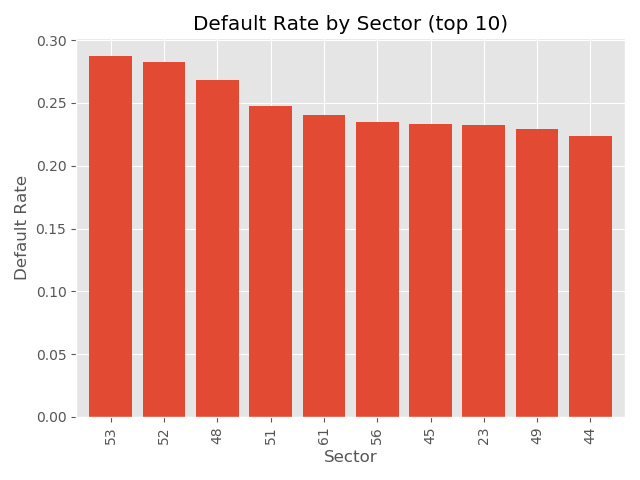
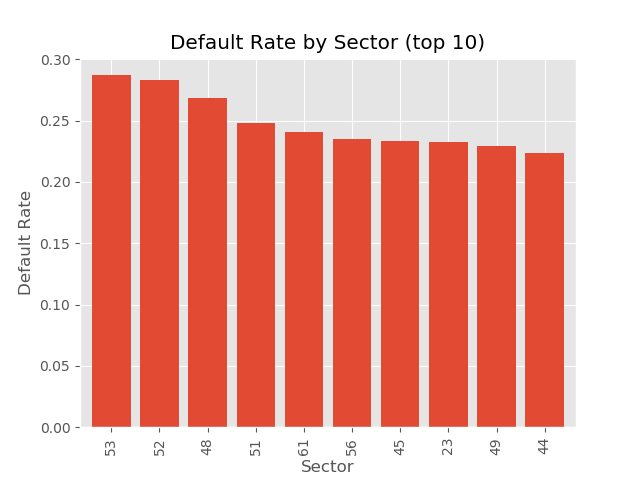
eda updated

diff --git a/src/data_eda.py b/src/data_eda.py
@@ -98,18 +98,18 @@ def plot_pca_explained_var(ax, pca):
 
 if __name__ == "__main__":
 
-    us_unemploy = pd.read_csv('data/us_unemployment.csv', index_col=0)
-    ur = us_unemploy.values.reshape(-1,1)[:-8]
-    date_range = pd.date_range('1965-01','2020-05', freq='M')
-    df_ur = pd.DataFrame(data=ur, index=date_range, columns=['U_rate'])
-    fig, ax = plt.subplots(figsize=(8,4))
-    ax.plot(df_ur)
-    ax.set_title("U.S. Unemployment Rate (1965.01-2020.04)")
-    ax.set_xlabel("Time")
-    ax.set_ylabel("Unemployment Rate")
-    plt.tight_layout()
-    plt.savefig('images/unemployment.png')
-    plt.close()
+    # us_unemploy = pd.read_csv('data/us_unemployment.csv', index_col=0)
+    # ur = us_unemploy.values.reshape(-1,1)[:-8]
+    # date_range = pd.date_range('1965-01','2020-05', freq='M')
+    # df_ur = pd.DataFrame(data=ur, index=date_range, columns=['U_rate'])
+    # fig, ax = plt.subplots(figsize=(8,4))
+    # ax.plot(df_ur)
+    # ax.set_title("U.S. Unemployment Rate (1965.01-2020.04)")
+    # ax.set_xlabel("Time")
+    # ax.set_ylabel("Unemployment Rate")
+    # plt.tight_layout()
+    # plt.savefig('images/unemployment.png')
+    # plt.close()
 
     df = pd.read_pickle('data/pickled_loan')
     df.drop(['grouper','Date'], axis=1, inplace=True)
@@ -119,22 +119,20 @@ if __name__ == "__main__":
     # m = heatmap_state(df_state, columns, 'Default Rate (%)', 'YlGn')
 
     plot_default_rate(df, 'Sector', "Default Rate by Sector (top 10)", ascending=False)
-    plt.tight_layout()
     plt.savefig('images/default_sector_top10.png')
     plt.close()
 
     plot_default_rate(df, 'Sector', "Default Rate by Sector (bottom 10)", ascending=True)
     plt.savefig('images/default_sector_bottom10.png')
-    plt.tight_layout()
     plt.close()
 
-    plot_default_rate(df, 'Bank', "Loan Default Rate by Bank Histogram (3000+ loans)", cutoff=3000, bins=10)
-    plt.savefig('images/default_bank_3000.png')
-    plt.close()
+    # plot_default_rate(df, 'Bank', "Loan Default Rate by Bank Histogram (3000+ loans)", cutoff=3000, bins=10)
+    # plt.savefig('images/default_bank_3000.png')
+    # plt.close()
 
-    plot_default_rate(df, 'Bank', "Loan Default Rate by Bank Histogram (1000+ loans)", cutoff=1000, bins=10)
-    plt.savefig('images/default_bank_1000.png')
-    plt.close()
+    # plot_default_rate(df, 'Bank', "Loan Default Rate by Bank Histogram (1000+ loans)", cutoff=1000, bins=10)
+    # plt.savefig('images/default_bank_1000.png')
+    # plt.close()
 
     ### Additional feature engineering and save final data to pickle file
     # df['SBA_g'] = df['SBA_Appv']/df['GrAppv']

diff --git a/README.md b/README.md
@@ -116,7 +116,7 @@ Location (in this case State) can be a possible indicator for potential loan ris
 
 ### 3.2. Sector <a name="sector"></a>
 
-The below bar charts lists the top 10 highest loan default sectors.  Cross-referencing the sector NAICS table above, we can see that __sector 53__ is "Real estate and rental and leasing".  Real estate secotor is pro-cyclical and tends to overshoot in both economic booms and busts.  Since 1980, the United States has experienced at least two big real-estate led economic cycles, the most recent being the 2008-2009 financial crisis.  On the other side of the spectrum, __sector 11__ (Agriculture, forestry, fishing and hunting), __sector 21__ (Mining, quarring, and oil and gas extraction), __sector 55__ (Management), and __sector 62__ (Health care and social assistance) suffer from lower loan default risks (in the 10% range) either because the sector is acyclical or hasn't experienced significant downward price adjustments.  (The same cannot be said about oil and gas industry in the Covid-19 Crisis, though the cause is not the virus alone.) 
+The below bar charts lists the top 10 highest loan default sectors.  Cross-referencing the sector NAICS table above, we can see that __sector 53__ is "Real estate and rental and leasing".  Real estate secotor is pro-cyclical and tends to overshoot in both economic booms and busts.  Since 1980, the United States has experienced at least two big real-estate led economic cycles, the most recent being the 2008-2009 financial crisis.  On the other side of the spectrum, __sector 21__ (Mining, quarring, and oil and gas extraction), __sector 11__ (Agriculture, forestry, fishing and hunting), __sector 55__ (Management), and __sector 62__ (Health care and social assistance) suffer from lower loan default risks (in the 10% range) either because the sector is acyclical or hasn't experienced significant downward price adjustments.  (The same cannot be said about oil and gas industry in the Covid-19 Crisis, though the cause is not the virus alone.) 
 
 ![](images/default_sector_top10.png)
 
